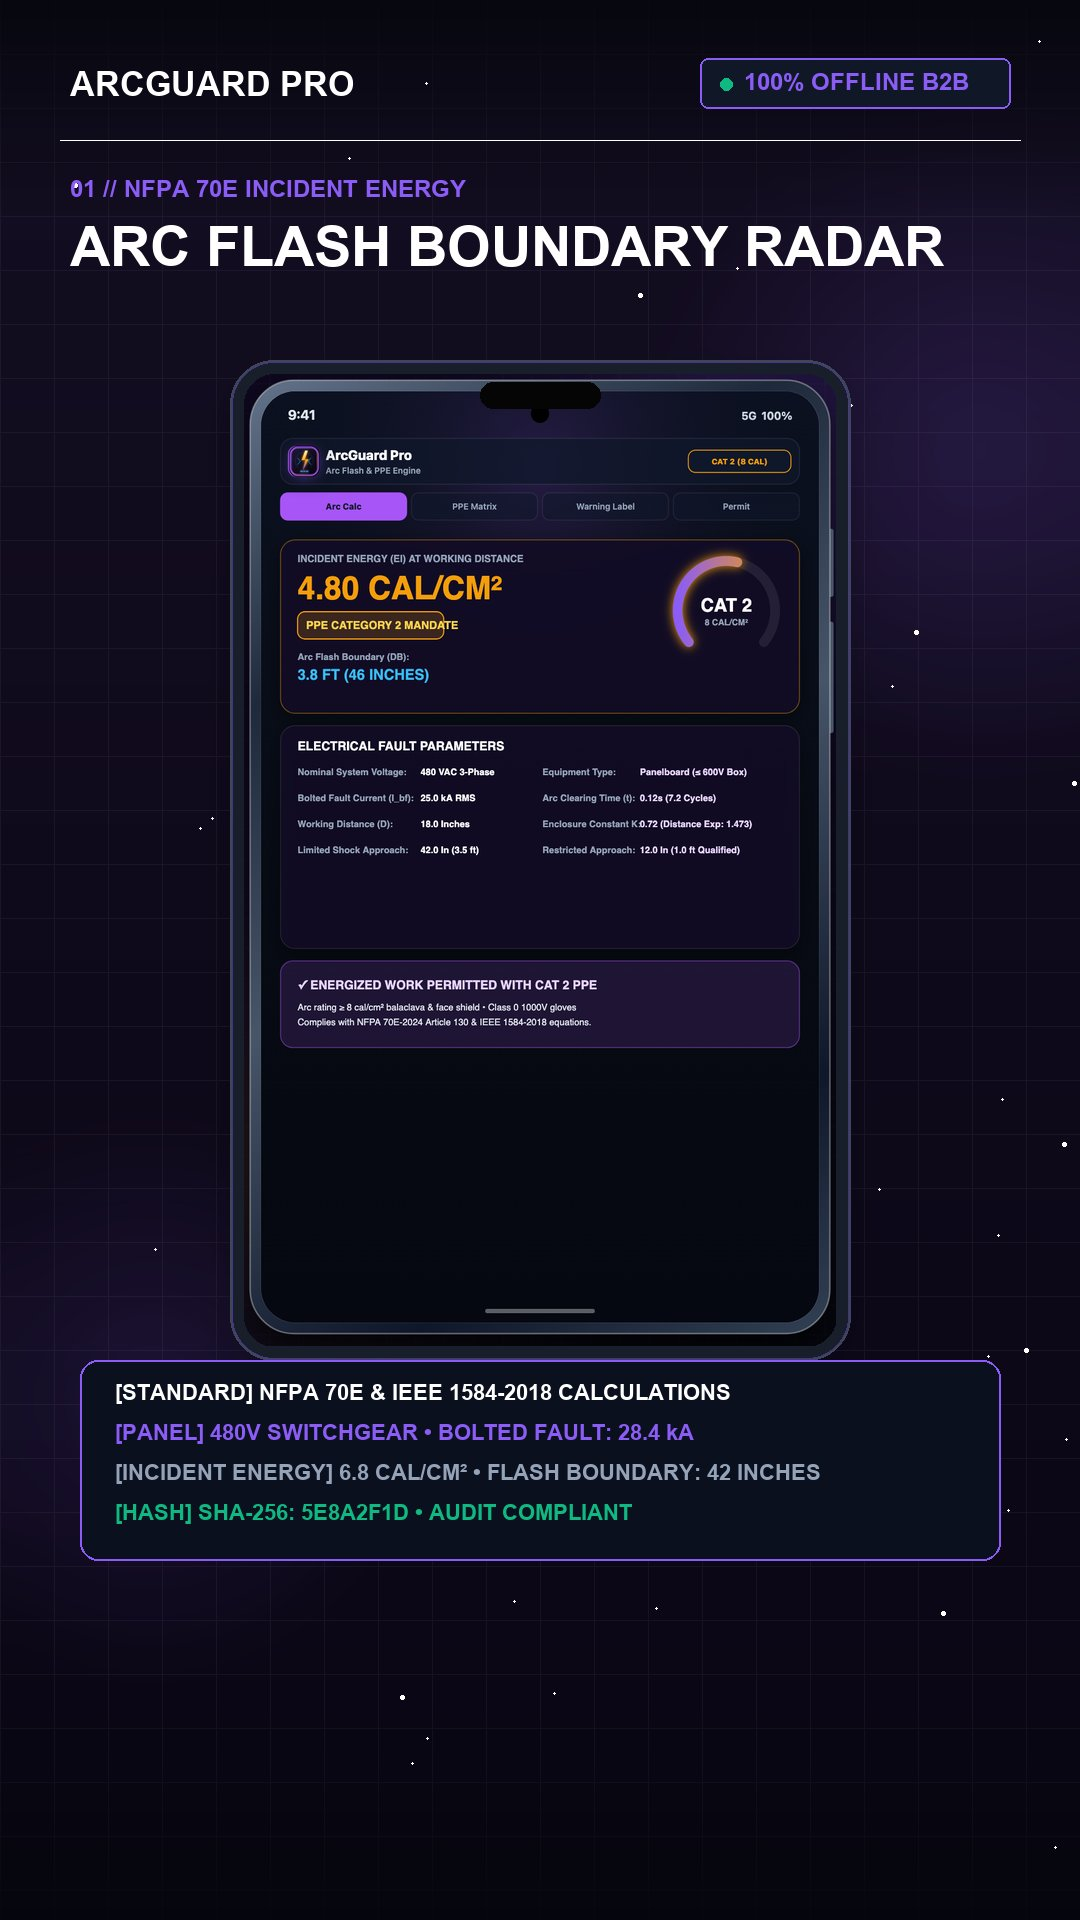
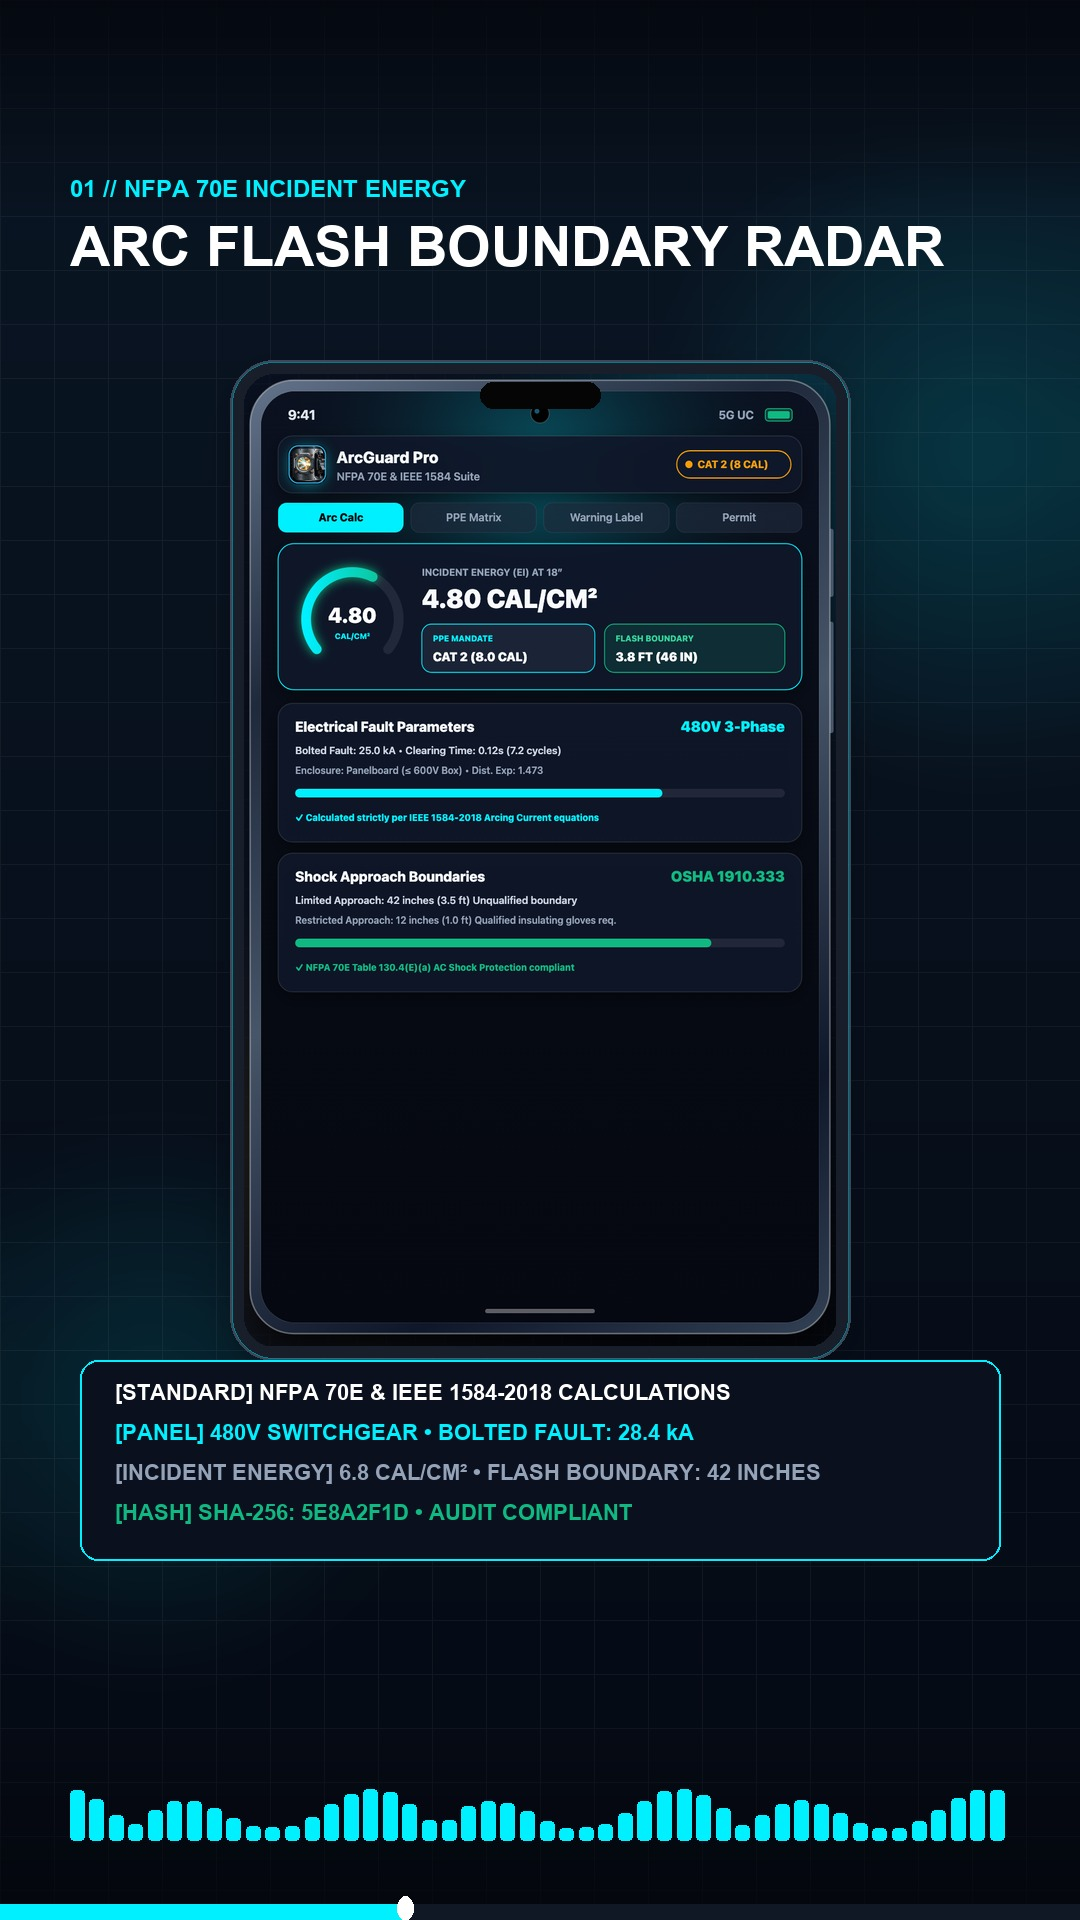
feat(media): update preview cards and bridge social cards for ArcGuard, ConfinedSafe, RigSafe, SpillVault

diff --git a/bridge.html b/bridge.html
@@ -846,8 +846,65 @@
         text: `One bad sling angle or soft outrigger pad can tip a 200-ton crane.\n\nRigSafe Pro computes multi-leg bridle sling tensions, crane mat ground bearing pressure, and ASME B30.9 safety factors in seconds. 100% offline.\n\nDownload on Google Play: https://play.google.com/store/apps/details?id=com.rigsafe.nexus\n\n#CraneLife #HeavyCivil #Rigging #ASME #OSHA1926 #Construction`,
         link: "https://play.google.com/store/apps/details?id=com.rigsafe.nexus",
         link_text: "Google Play Store ↗",
-        preview_img: "icons/rigsafe.png",
+        preview_img: "previews/rigsafe_scene2.jpg",
         app_tag: "RIGSAFE PRO",
+        media_type: "60 FPS Master Video",
+        metrics: { views: 0, likes: 0, reposts: 0, replies: 0, bookmarks: 0 },
+        comments: []
+      },
+      {
+        id: "x_arcguard",
+        platform: "x",
+        channel_name: "X (Twitter)",
+        account_name: "Digital Nexus Studio",
+        account_handle: "@DigitalNexusHQ",
+        badge: "VERIFIED STUDIO",
+        date: "OCT 19, 2026",
+        status: "DRAFT // READY FOR BROADCAST",
+        title: "ArcGuard Pro // 60 FPS Master Video Launch",
+        text: `Arc flash blasts reach 35,000°F. Unverified PPE causes catastrophic burn injuries.\n\nArcGuard Pro calculates incident energy (cal/cm²), flash boundaries, and IEEE 1584 shock zones in seconds. 100% offline with zero cloud latency.\n\nDownload on Google Play: https://play.google.com/store/apps/details?id=com.arcguard.nexus\n\n#NFPA70E #ElectricalSafety #ArcFlash #IEEE1584 #HighVoltage #SafetyEngineering`,
+        link: "https://play.google.com/store/apps/details?id=com.arcguard.nexus",
+        link_text: "Google Play Store ↗",
+        preview_img: "previews/arcguard_scene2.jpg",
+        app_tag: "ARCGUARD PRO",
+        media_type: "60 FPS Master Video",
+        metrics: { views: 0, likes: 0, reposts: 0, replies: 0, bookmarks: 0 },
+        comments: []
+      },
+      {
+        id: "x_confinedsafe",
+        platform: "x",
+        channel_name: "X (Twitter)",
+        account_name: "Digital Nexus Studio",
+        account_handle: "@DigitalNexusHQ",
+        badge: "VERIFIED STUDIO",
+        date: "OCT 19, 2026",
+        status: "DRAFT // READY FOR BROADCAST",
+        title: "ConfinedSafe Pro // 60 FPS Master Video Launch",
+        text: `Toxic gases and oxygen deficiency cause fatal accidents without stratified testing.\n\nConfinedSafe Pro monitors stratified 4-gas atmosphere (O₂, LEL, CO, H₂S), computes 20 ACH mechanical blower ventilation, and tracks live entrant rosters. 100% offline.\n\nDownload on Google Play: https://play.google.com/store/apps/details?id=com.confinedsafe.nexus\n\n#OSHA1910 #ConfinedSpace #GasDetection #SafetyFirst #IndustrialSafety`,
+        link: "https://play.google.com/store/apps/details?id=com.confinedsafe.nexus",
+        link_text: "Google Play Store ↗",
+        preview_img: "previews/confinedsafe_scene2.jpg",
+        app_tag: "CONFINEDSAFE PRO",
+        media_type: "60 FPS Master Video",
+        metrics: { views: 0, likes: 0, reposts: 0, replies: 0, bookmarks: 0 },
+        comments: []
+      },
+      {
+        id: "x_spillvault",
+        platform: "x",
+        channel_name: "X (Twitter)",
+        account_name: "Digital Nexus Studio",
+        account_handle: "@DigitalNexusHQ",
+        badge: "VERIFIED STUDIO",
+        date: "OCT 19, 2026",
+        status: "DRAFT // READY FOR BROADCAST",
+        title: "SpillVault Pro // 60 FPS Master Video Launch",
+        text: `Inadequate secondary containment volume triggers immediate EPA facility shutdowns.\n\nSpillVault Pro verifies 110% tank capacity, 25-yr 24-hr rainfall allowance, and monthly STI SP001 inspection logs. 100% offline.\n\nDownload on Google Play: https://play.google.com/store/apps/details?id=com.spillvault.nexus\n\n#EPA #SPCC #OilSpill #SecondaryContainment #EnvironmentalEngineering`,
+        link: "https://play.google.com/store/apps/details?id=com.spillvault.nexus",
+        link_text: "Google Play Store ↗",
+        preview_img: "previews/spillvault_scene2.jpg",
+        app_tag: "SPILLVAULT PRO",
         media_type: "60 FPS Master Video",
         metrics: { views: 0, likes: 0, reposts: 0, replies: 0, bookmarks: 0 },
         comments: []

diff --git a/bridge/index.html b/bridge/index.html
@@ -846,8 +846,65 @@
         text: `One bad sling angle or soft outrigger pad can tip a 200-ton crane.\n\nRigSafe Pro computes multi-leg bridle sling tensions, crane mat ground bearing pressure, and ASME B30.9 safety factors in seconds. 100% offline.\n\nDownload on Google Play: https://play.google.com/store/apps/details?id=com.rigsafe.nexus\n\n#CraneLife #HeavyCivil #Rigging #ASME #OSHA1926 #Construction`,
         link: "https://play.google.com/store/apps/details?id=com.rigsafe.nexus",
         link_text: "Google Play Store ↗",
-        preview_img: "icons/rigsafe.png",
+        preview_img: "previews/rigsafe_scene2.jpg",
         app_tag: "RIGSAFE PRO",
+        media_type: "60 FPS Master Video",
+        metrics: { views: 0, likes: 0, reposts: 0, replies: 0, bookmarks: 0 },
+        comments: []
+      },
+      {
+        id: "x_arcguard",
+        platform: "x",
+        channel_name: "X (Twitter)",
+        account_name: "Digital Nexus Studio",
+        account_handle: "@DigitalNexusHQ",
+        badge: "VERIFIED STUDIO",
+        date: "OCT 19, 2026",
+        status: "DRAFT // READY FOR BROADCAST",
+        title: "ArcGuard Pro // 60 FPS Master Video Launch",
+        text: `Arc flash blasts reach 35,000°F. Unverified PPE causes catastrophic burn injuries.\n\nArcGuard Pro calculates incident energy (cal/cm²), flash boundaries, and IEEE 1584 shock zones in seconds. 100% offline with zero cloud latency.\n\nDownload on Google Play: https://play.google.com/store/apps/details?id=com.arcguard.nexus\n\n#NFPA70E #ElectricalSafety #ArcFlash #IEEE1584 #HighVoltage #SafetyEngineering`,
+        link: "https://play.google.com/store/apps/details?id=com.arcguard.nexus",
+        link_text: "Google Play Store ↗",
+        preview_img: "previews/arcguard_scene2.jpg",
+        app_tag: "ARCGUARD PRO",
+        media_type: "60 FPS Master Video",
+        metrics: { views: 0, likes: 0, reposts: 0, replies: 0, bookmarks: 0 },
+        comments: []
+      },
+      {
+        id: "x_confinedsafe",
+        platform: "x",
+        channel_name: "X (Twitter)",
+        account_name: "Digital Nexus Studio",
+        account_handle: "@DigitalNexusHQ",
+        badge: "VERIFIED STUDIO",
+        date: "OCT 19, 2026",
+        status: "DRAFT // READY FOR BROADCAST",
+        title: "ConfinedSafe Pro // 60 FPS Master Video Launch",
+        text: `Toxic gases and oxygen deficiency cause fatal accidents without stratified testing.\n\nConfinedSafe Pro monitors stratified 4-gas atmosphere (O₂, LEL, CO, H₂S), computes 20 ACH mechanical blower ventilation, and tracks live entrant rosters. 100% offline.\n\nDownload on Google Play: https://play.google.com/store/apps/details?id=com.confinedsafe.nexus\n\n#OSHA1910 #ConfinedSpace #GasDetection #SafetyFirst #IndustrialSafety`,
+        link: "https://play.google.com/store/apps/details?id=com.confinedsafe.nexus",
+        link_text: "Google Play Store ↗",
+        preview_img: "previews/confinedsafe_scene2.jpg",
+        app_tag: "CONFINEDSAFE PRO",
+        media_type: "60 FPS Master Video",
+        metrics: { views: 0, likes: 0, reposts: 0, replies: 0, bookmarks: 0 },
+        comments: []
+      },
+      {
+        id: "x_spillvault",
+        platform: "x",
+        channel_name: "X (Twitter)",
+        account_name: "Digital Nexus Studio",
+        account_handle: "@DigitalNexusHQ",
+        badge: "VERIFIED STUDIO",
+        date: "OCT 19, 2026",
+        status: "DRAFT // READY FOR BROADCAST",
+        title: "SpillVault Pro // 60 FPS Master Video Launch",
+        text: `Inadequate secondary containment volume triggers immediate EPA facility shutdowns.\n\nSpillVault Pro verifies 110% tank capacity, 25-yr 24-hr rainfall allowance, and monthly STI SP001 inspection logs. 100% offline.\n\nDownload on Google Play: https://play.google.com/store/apps/details?id=com.spillvault.nexus\n\n#EPA #SPCC #OilSpill #SecondaryContainment #EnvironmentalEngineering`,
+        link: "https://play.google.com/store/apps/details?id=com.spillvault.nexus",
+        link_text: "Google Play Store ↗",
+        preview_img: "previews/spillvault_scene2.jpg",
+        app_tag: "SPILLVAULT PRO",
         media_type: "60 FPS Master Video",
         metrics: { views: 0, likes: 0, reposts: 0, replies: 0, bookmarks: 0 },
         comments: []
